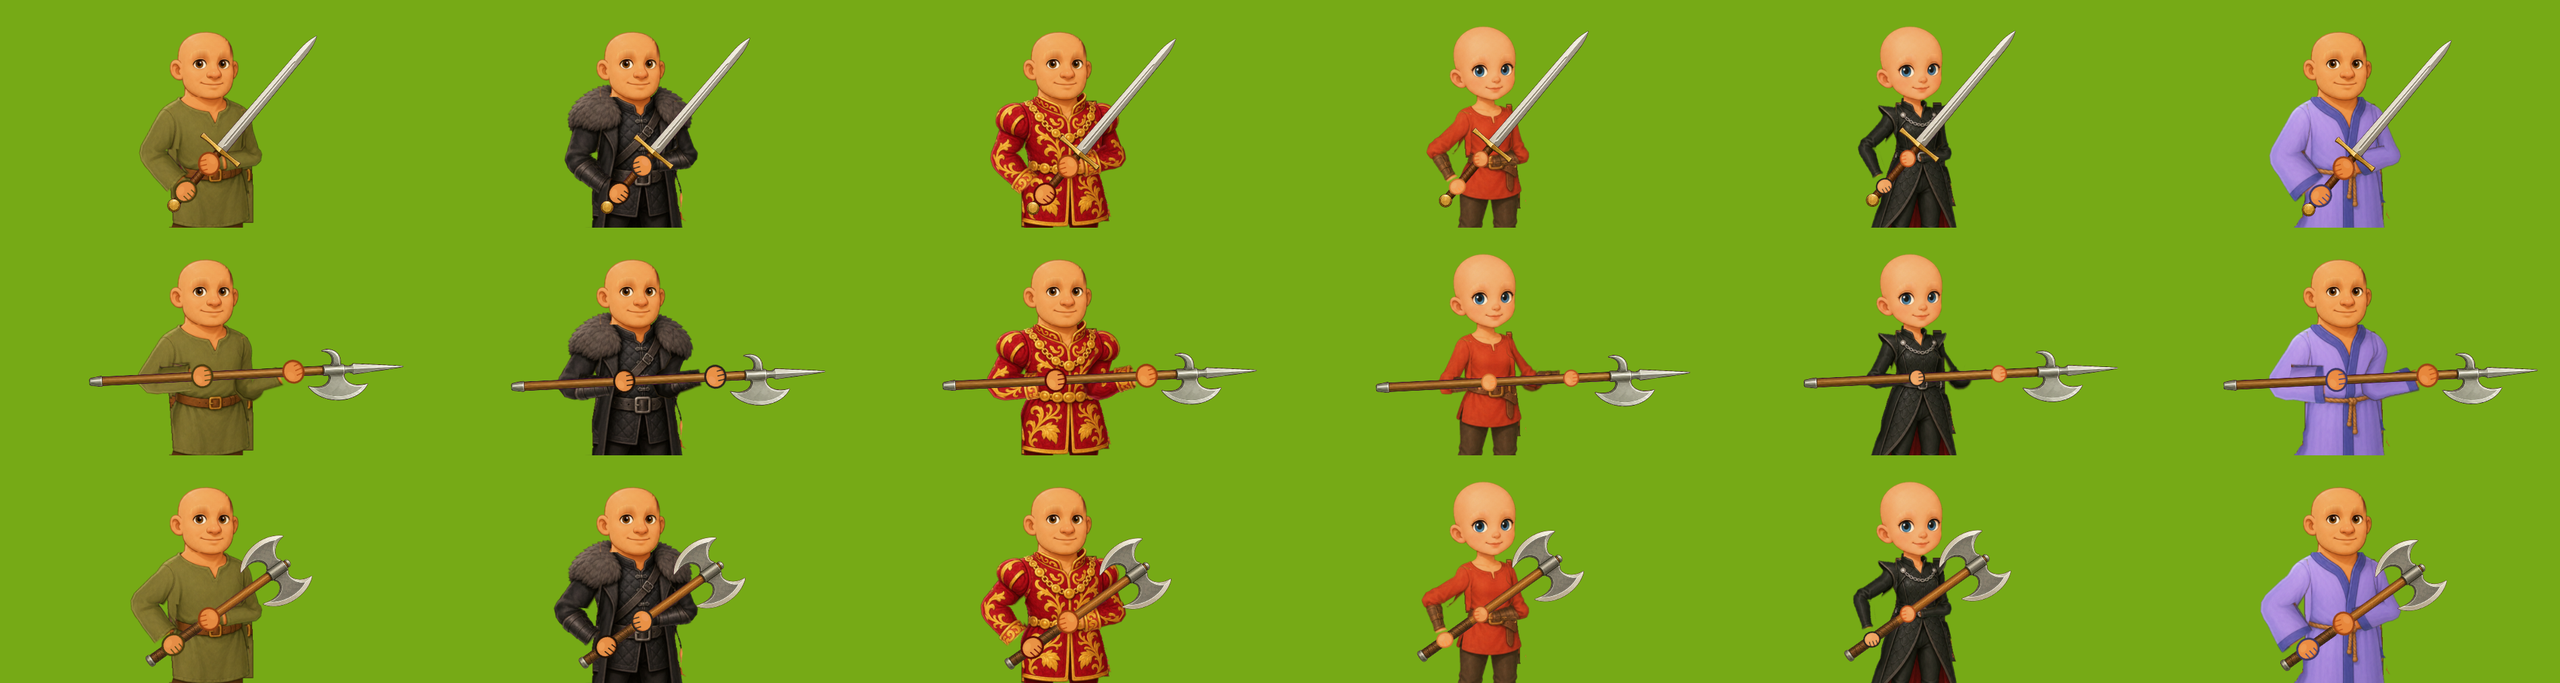
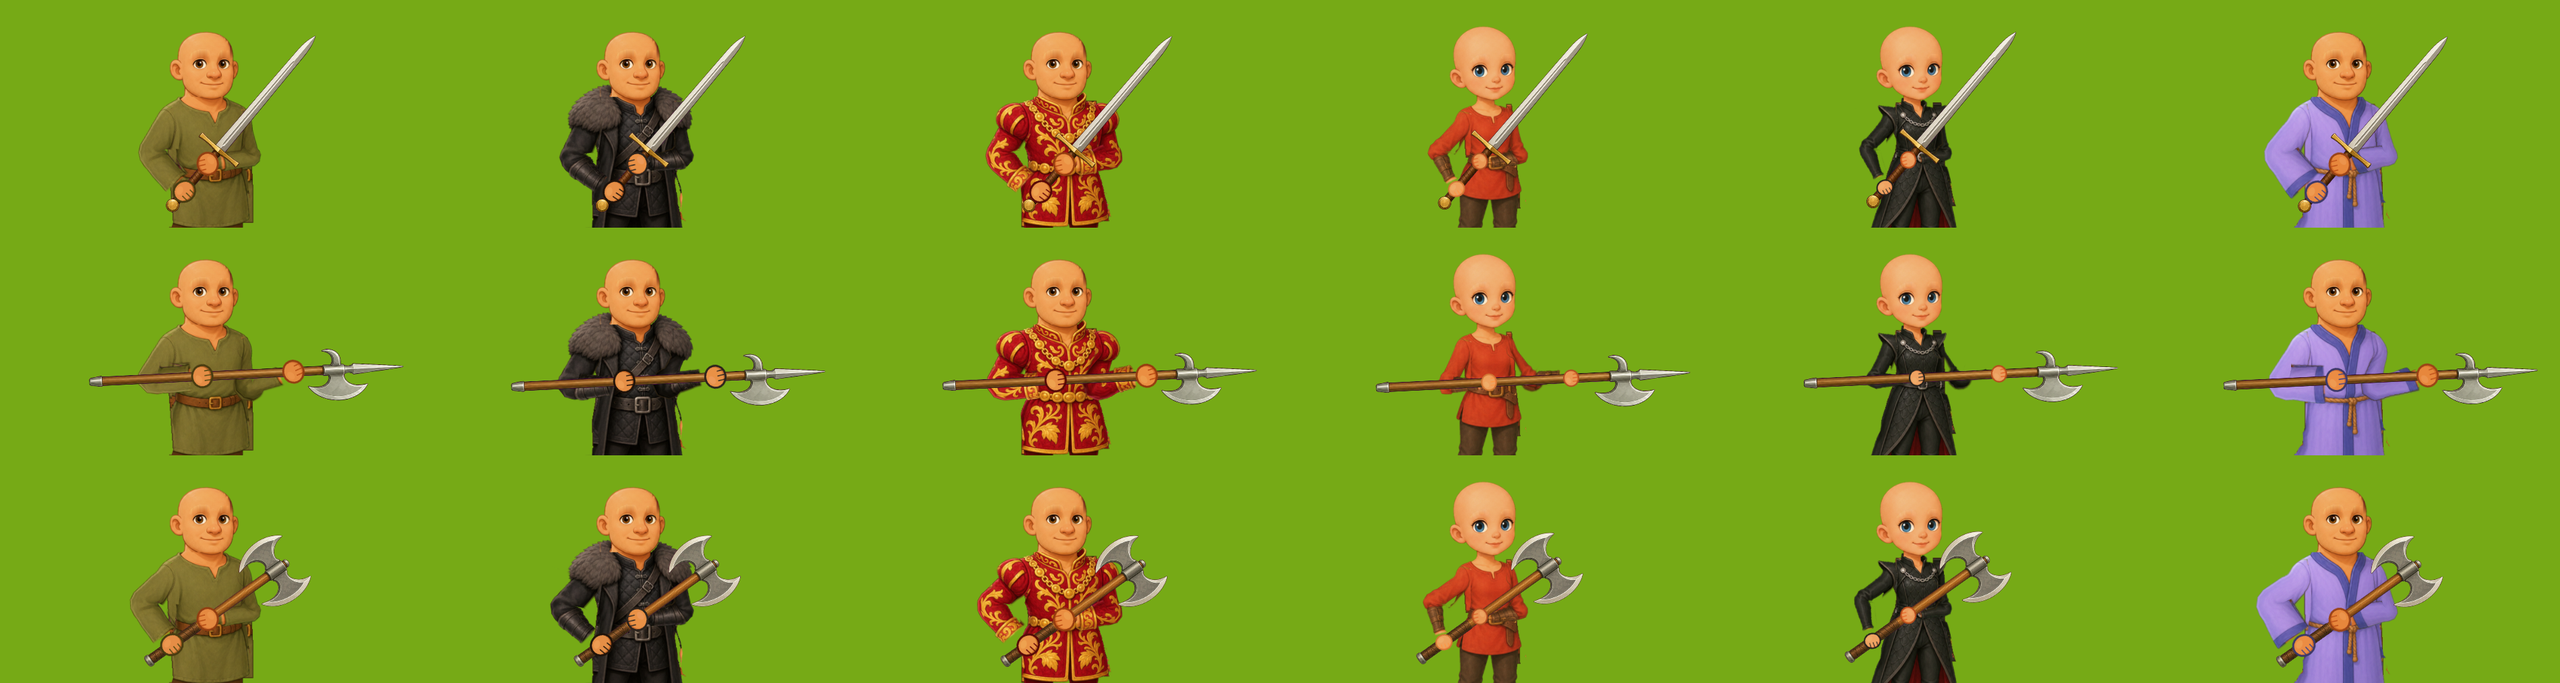
Two-handed slash and chop: the far arm is set, not solved, and does very little
The far arm was still doing too much: solved onto the weapon, it folded, swung
its upper arm and turned itself over to follow the hands. It is the thin arm,
half behind the chest, and it reads well only when it barely moves.

`slash2` and `chop2` are now keyed by that arm directly (the `weapon` track;
ArmRig.weaponPose): `f` where its forearm points, `u` a small swing of its upper
arm, `a` the way the weapon points. The weapon lies in that hand and the NEAR
arm, the whole one in front, is the one solved to reach the grip. The far upper
arm moves at most a quarter of a radian; the forearm does the work.

- at rest the far forearm lies in across the belly, so the elbow hangs straight
  down against the body on every outfit
- the chop keeps the axe head forward of upright on the raise, clear of the face
- the cost is reach: the cut ends with the hands at the belt and the blade
  level; the slash's body step is 0.46 tile to carry it to the target
- the far-arm fold keys and the reach clamp of the previous version are gone;
  the polearm's thrust is unchanged

Checked on offline renders only (two-handed-slash.gif, two-handed-chop.gif,
two-handed-guards.png).

diff --git a/game-client/src/Render/PixiRenderer/ArmRig.js b/game-client/src/Render/PixiRenderer/ArmRig.js
@@ -335,7 +335,6 @@ export function cutRig(renderer, texture, rig) {
 // The runtime: the arm sprites on a BreathSprite, and the clip player
 // ---------------------------------------------------------------------------------------------
 const SECOND_REACH = 0.86;    // a two-handed weapon's second hand: how far of its arm's full length it may be stretched
-const FIRST_REACH = 0.96;     // a weapon-keyed pose: how far of its length the FIRST arm may be stretched (the near arm: it may go nearly straight)
 const SECOND_MIN_HOLD = 0.22; // ... and how near the first hand it may come, tiles along the weapon
 const SECOND_KEEP = 0.8;      // ... what a px of the elbow moving since the last frame costs: it holds its fold unless the other is clearly better
 const SECOND_EASE_MS = 35;    // ... and how quickly its joints follow the answer
@@ -361,8 +360,8 @@ function handPoint(a, ts, te, tw = 0) {
  * that is from where the elbow hangs in the drawing) }. Out of reach, the arm straightens toward the
  * point; too near, it folds as far as it can. Two bones reach a point two ways, mirror images; an elbow
  * mirror images: `bend` says which (1: the forearm turns clockwise on the upper arm, the far arm's usual
- * way; -1: the other, the near arm's). A weapon-keyed clip names the fold itself (weaponPose); the older
- * two-handed clips weigh both each frame (secondPose).
+ * way; -1: the other, the near arm's). A weapon-keyed clip solves only the near arm, its own way
+ * (weaponPose); the polearm's far arm weighs both each frame (secondPose).
  */
 function reachFor(b, tx, ty, bend) {
   const [Sx, Sy] = b.S, [Ex, Ey] = b.E, [Gx, Gy] = b.G;
@@ -376,8 +375,6 @@ function reachFor(b, tx, ty, bend) {
   return { ts, te: wrap(Math.atan2(hy - ey, hx - ex) - a2 - ts), ex, ey, away: Math.hypot(ex - Ex, ey - Ey) };
 }
 const bendOf = (side) => (side === 'R' ? 1 : -1);
-/** The last `fold` set by a key at or before t (a weapon-keyed clip, ArmRig.weaponPose): 1 until one says otherwise. */
-const foldAt = (keys, t) => { let f = 1; for (const k of keys) { if (k.t > t) break; if (k.fold) f = k.fold; } return f; };
 
 export class ArmRig {
   constructor(sprite, rig, cut, { attackClip } = {}) {
@@ -536,7 +533,7 @@ export class ArmRig {
   secondPose(clip, t, now, auto) {
     const H = this.second, a = H && this.arms[H.holder], b = H && this.arms[H.side];
     if (!a || !b || !a.held) return null;
-    const keyed = clip ? (clip.weapon ? { ...keyAt(clip.weapon, t, ['x', 'y', 'a']), fold: foldAt(clip.weapon, t) } : null) : (this.stance && this.stance.weapon) || null;
+    const keyed = clip ? (clip.weapon ? keyAt(clip.weapon, t, ['f', 'u', 'a']) : null) : (this.stance && this.stance.weapon) || null;
     if (keyed) return this.weaponPose(H, a, b, keyed, clip, t, now);
     const p = this.poseOf(H.holder, a, clip, t, now, auto), g = handPoint(a, p.ts, p.te, p.tw);
     let d = (clip && clip.second ? valueAt(clip.second, t, 'd') : H.dist) * H.pxPerTile;
@@ -582,29 +579,24 @@ export class ArmRig {
   }
 
   /**
-   * A two-handed weapon keyed by ITSELF (a clip's `weapon` track, a guard's `weapon`): `key` is where the
-   * second (front) hand is, from its own shoulder in lengths of that arm (x toward the image's right, the
-   * way the figure faces; y down), and the way the weapon points (a: 0 straight up, + to the right). The
-   * first hand is the hold's length back along the weapon, both arms are solved onto it, and the weapon
-   * is turned in the first hand to point as keyed. Asked to reach further than the arms can (the end of a
-   * cut is keyed past reach on purpose), the hands come back until both arms can hold on: each body
-   * stretches as far as its own arms go. Returns the second arm's pose, with the first arm's as `lead`.
+   * A two-handed weapon keyed by its FRONT ARM (a clip's `weapon` track, a guard's `weapon`). The far
+   * arm is the thin one, half behind the chest, and it reads well only when it does very little (owner
+   * 2026-11-13: "the upper bicep doesn't move all that much; most of the movement should be the lower
+   * arm"). So that arm is not solved at all: the key SETS it. `f` is where its forearm points, from
+   * hanging straight down (- in across the body, + out toward the target); `u` is how far its upper arm
+   * swings from where it is drawn (+ toward the target; kept small); `a` is the way the weapon points
+   * (0 straight up, + toward the target). The weapon lies in that hand, the first (near) hand is the
+   * hold's length back along it, and the near arm, the whole one in front, is the one solved to reach.
+   * Returns the second arm's pose, with the first arm's as `lead`.
    */
   weaponPose(H, a, b, key, clip, t, now) {
-    const len = (m) => Math.hypot(m.E[0] - m.S[0], m.E[1] - m.S[1]) + Math.hypot(m.G[0] - m.E[0], m.G[1] - m.E[1]);
-    const Lf = len(b), Ln = len(a), d = (clip && clip.second ? valueAt(clip.second, t, 'd') : H.dist) * H.pxPerTile;
-    const ux = Math.sin(key.a), uy = -Math.cos(key.a);
-    let fx = b.S[0] + key.x * Lf, fy = b.S[1] + key.y * Lf;
-    const fd = Math.hypot(fx - b.S[0], fy - b.S[1]), fmax = SECOND_REACH * Lf;
-    if (fd > fmax) { fx = b.S[0] + ((fx - b.S[0]) * fmax) / fd; fy = b.S[1] + ((fy - b.S[1]) * fmax) / fd; }
-    for (let i = 0; i < 40 && Math.hypot(fx - ux * d - a.S[0], fy - uy * d - a.S[1]) > FIRST_REACH * Ln; i++) fx -= 0.02 * Lf;
-    // the second arm's fold is the clip's to choose (`fold` on a key, from that key on; 1 its usual way): with the hand
-    // out past its own shoulder the usual fold lifts the elbow in the air, the other lets it hang. The clip turns the
-    // arm over where the hand passes close by the shoulder, the arm folded shut, where the two folds are one pose
-    const far = this.followTo(H, 'last', b, fx, fy, now, bendOf(H.side) * (key.fold || 1)), near = this.followTo(H, 'lastFirst', a, fx - ux * d, fy - uy * d, now, bendOf(H.holder));
-    const amt = this.stanceAmount(now), fore = handPoint(a, near.ts, near.te).fore;
-    const turn = Math.atan2(Math.sin(key.a - fore - a.held.angle), Math.cos(key.a - fore - a.held.angle));
-    return { side: H.side, ts: far.ts * amt, te: far.te * amt, tw: 0, st: null, tx: fx, ty: fy, amt, turn: turn * amt,
+    const d = (clip && clip.second ? valueAt(clip.second, t, 'd') : H.dist) * H.pxPerTile, amt = this.stanceAmount(now);
+    const wrap = (v) => Math.atan2(Math.sin(v), Math.cos(v));
+    const fts = -key.u, fte = wrap(Math.PI / 2 - key.f - Math.atan2(b.G[1] - b.E[1], b.G[0] - b.E[0]) + key.u); // screen turns: + is clockwise
+    const F = handPoint(b, fts, fte), ux = Math.sin(key.a), uy = -Math.cos(key.a);
+    const near = this.followTo(H, 'lastFirst', a, F.x - ux * d, F.y - uy * d, now, bendOf(H.holder));
+    const fore = handPoint(a, near.ts, near.te).fore, turn = wrap(key.a - fore - a.held.angle);
+    return { side: H.side, ts: fts * amt, te: fte * amt, tw: 0, st: null, tx: F.x, ty: F.y, amt, turn: turn * amt,
       lead: { ts: near.ts * amt, te: near.te * amt, tw: 0, st: this.stance } };
   }
 

diff --git a/game-client/src/Render/PixiRenderer/armClips.js b/game-client/src/Render/PixiRenderer/armClips.js
@@ -116,41 +116,34 @@ export const ARM_CLIPS = {
       { t: 520, s: 0.28, e: -1.3 },
     ],
   },
-  // the avatar's TWO-HANDED SLASH (great swords). It is keyed by the WEAPON, not by an arm (`weapon`,
-  // ArmRig.weaponPose): each key is where the FRONT hand is, from its own shoulder in lengths of that arm
-  // (x toward the target, y down), and where the blade points (a: 0 straight up, + toward the target).
-  // The rear hand is a grip's width down the blade's line from it, and BOTH arms are solved onto the
-  // sword. Keyed from the front shoulder because the far arm is the one with no room: its hand must stay
-  // where its elbow can hang, and where that is differs between the bodies (the female's far shoulder
-  // sits much nearer the middle; keyed by the rear arm's angles her far elbow thrashed, owner 2026-11-13).
-  // The blade is free in the hands here, not held at a right angle to the forearm: that is what lets the
-  // cut END at full stretch, both arms and the blade reaching out at the target. From the guard, hands
-  // at the belly and the blade leaning forward, the sword is lifted upright before the chest (it crosses
-  // the face for a moment), the hilt is drawn in past the chest as the blade comes over, and the sword is
-  // driven out level as far as the arms reach, then drawn back the same way. `fold` on a key turns the far
-  // arm over from there on (-1: its elbow hangs under the outstretched arm instead of lifting above it); it
-  // is set where the hand passes its own shoulder, the one place the arm can turn over unseen. `lead` is
-  // only the one-armed fallback for a figure whose rig has no far arm
+  // the avatar's TWO-HANDED SLASH (great swords). It is keyed by the FRONT ARM (`weapon`,
+  // ArmRig.weaponPose), which does as little as an arm can: its upper arm all but still (`u`, a small
+  // swing toward the target), its forearm doing the work (`f`: where it points from hanging straight
+  // down, - in across the body), and `a` the way the blade points (0 straight up, + toward the target).
+  // The rear hand is a grip's width back along the blade and the near arm is solved to hold it there. So
+  // the far arm never thrashes or winds itself over, on any body (owner 2026-11-13). The blade is free
+  // in the hands here, not held at a right angle to the forearm. From the guard, hands at the belly and
+  // the blade leaning forward, the forearm lifts the hilt to the collarbone, the blade upright, and
+  // sweeps it down and out to level at the belt, the upper arm following a little. `lead` is only the
+  // one-armed fallback for a figure whose rig has no far arm
   slash2: {
     hit: 295,
     body: [
       { t: 0, d: 0 },
       { t: 195, d: -0.1, ease: 'out' },
-      { t: 295, d: 0.4, ease: 'in' },
-      { t: 370, d: 0.36 },
+      { t: 295, d: 0.46, ease: 'in' },
+      { t: 370, d: 0.42 },
       { t: 640, d: 0 },
     ],
     weapon: [
-      { t: 0, x: -0.46, y: 0.5, a: 0.7, fold: 1 }, // the guard: the front hand where its elbow hangs straight down, in against the body
-      { t: 120, x: -0.36, y: 0.22, a: 0.3, ease: 'out' },
-      { t: 195, x: -0.42, y: 0.05, a: -0.1 },
-      { t: 225, x: -0.42, y: 0.04, a: -0.12 },
-      { t: 258, x: -0.04, y: 0.13, a: 0.75, ease: 'in', fold: -1 }, // the hilt drawn in past the chest: the far arm turns over here
-      { t: 295, x: 0.6, y: 0.5, a: 1.5 },
-      { t: 335, x: 0.6, y: 0.52, a: 1.55, ease: 'out' },
-      { t: 430, x: 0.6, y: 0.52, a: 1.55 },
-      { t: 540, x: -0.04, y: 0.15, a: 0.9, fold: 1 }, // drawn back to the chest, and the arm turned back
-      { t: 640, x: -0.46, y: 0.5, a: 0.7 },
+      { t: 0, f: -1.44, u: 0, a: 0.7 },
+      { t: 120, f: -1.95, u: 0.04, a: 0.3, ease: 'out' },
+      { t: 195, f: -2.45, u: 0.08, a: -0.1 },
+      { t: 225, f: -2.48, u: 0.08, a: -0.12 },
+      { t: 295, f: -0.75, u: 0.25, a: 1.5, ease: 'in' },
+      { t: 335, f: -0.7, u: 0.25, a: 1.55, ease: 'out' },
+      { t: 430, f: -0.7, u: 0.25, a: 1.55 },
+      { t: 640, f: -1.44, u: 0, a: 0.7 },
     ],
     lead: [
       { t: 0, s: 0.15, e: -1.02 },
@@ -235,19 +228,18 @@ export const ARM_CLIPS = {
   // down forward to level at the belt. Slower and heavier than the slash: the body rocks back under the lift and steps in hard
   chop2: {
     hit: 385,
-    // keyed by the WEAPON, as slash2 is (ArmRig.weaponPose): where the front hand is from its own shoulder,
-    // in lengths of that arm, and where the head points. The guard holds the front hand where its elbow
-    // hangs straight down against the body, on every body (owner 2026-11-13: tucked in, not sticking out)
+    // keyed by the FRONT ARM, as slash2 is (ArmRig.weaponPose): its forearm does the work (`f`), its upper
+    // arm barely moves (`u`), and `a` is the way the head points. At rest the forearm lies in across the
+    // belly, so the far elbow hangs straight down against the body
     weapon: [
-      { t: 0, x: -0.46, y: 0.5, a: 0.95, fold: 1 },
-      { t: 170, x: -0.32, y: 0.18, a: 0.35, ease: 'out' },
-      { t: 260, x: -0.1, y: -0.22, a: 0 },
-      { t: 300, x: -0.1, y: -0.23, a: -0.03 },
-      { t: 345, x: -0.42, y: 0.42, a: 0.7, ease: 'in' },
-      { t: 385, x: -0.24, y: 0.92, a: 1.45 },
-      { t: 430, x: -0.22, y: 0.9, a: 1.55, ease: 'out' },
-      { t: 560, x: -0.22, y: 0.9, a: 1.55 },
-      { t: 800, x: -0.46, y: 0.5, a: 0.95 },
+      { t: 0, f: -1.44, u: 0, a: 0.95 },
+      { t: 170, f: -1.95, u: 0.05, a: 0.6, ease: 'out' },
+      { t: 260, f: -2.6, u: 0.1, a: 0.25 }, // the head stays forward of upright: clear of the face
+      { t: 300, f: -2.62, u: 0.1, a: 0.22 },
+      { t: 385, f: -0.75, u: 0.25, a: 1.45, ease: 'in' },
+      { t: 430, f: -0.7, u: 0.25, a: 1.55, ease: 'out' },
+      { t: 560, f: -0.7, u: 0.25, a: 1.55 },
+      { t: 800, f: -1.44, u: 0, a: 0.95 },
     ],
     body: [
       { t: 0, d: 0 },

diff --git a/game-client/src/Render/PixiRenderer/heldWeapon.js b/game-client/src/Render/PixiRenderer/heldWeapon.js
@@ -33,10 +33,10 @@ const CUT_GUARD = { side: HELD_ARM, s: 0.28, e: -1.3 };
 const THRUST_GUARD = { side: HELD_ARM, s: 0.43, e: -2.05 };
 // the two-handed sword's guard: both hands at the belly, the blade standing up and leaning well forward
 // (`weapon`: the same guard as the two-handed clip keys it, armClips.js slash2; s, e: the one-armed fallback)
-const GREAT_GUARD = { side: HELD_ARM, s: 0.15, e: -1.02, weapon: { x: -0.46, y: 0.5, a: 0.7 } };
+const GREAT_GUARD = { side: HELD_ARM, s: 0.15, e: -1.02, weapon: { f: -1.44, u: 0, a: 0.7 } };
 // a heavy two-handed head carried low and ready: the rear hand at the hip, the haft across the body with the head forward and up
 // (`weapon`: the guard as the two-handed clip keys it, armClips.js chop2; s, e: the one-armed fallback)
-const HEAVY_GUARD = { side: HELD_ARM, s: 0.1, e: -0.47, weapon: { x: -0.46, y: 0.5, a: 0.95 } };
+const HEAVY_GUARD = { side: HELD_ARM, s: 0.1, e: -0.47, weapon: { f: -1.44, u: 0, a: 0.95 } };
 
 /**
  * The weapon categories. `art`: the drawing; `size` and `grip`: its canvas and where the hand holds

diff --git a/docs/equipment-plan.md b/docs/equipment-plan.md
@@ -45,33 +45,35 @@ The owner asked to see the sword in the game before any more planning. What is i
   **The two-handed sword (built 2026-11-13).** Category `greatsword`: its own longer drawing
   (`weapon-great-sword.png`, 1.45 tiles, a grip long enough for two fists; `tools/art/jobs/weapons-r3.json`),
   the front hand 0.23 tile above the rear one, and the `slash2` clip. The front hand cannot slide
-  (above it is the blade). `slash2` is **keyed by the weapon**, not by an arm (`weapon` track,
-  `ArmRig.weaponPose`): each key says where the FRONT hand is, from its own shoulder in lengths of that
-  arm, and where the blade points; the rear hand is a grip's width back along the blade, and both arms
-  are solved onto the sword. Why:
-  - *The bodies differ.* Keyed by the rear arm's angles, the female's far elbow thrashed: her far
-    shoulder sits much nearer the middle, so the same arm angles put the hands almost on it. Keyed from
-    the front shoulder, the far hand is always where that arm has room.
-  - *Reach.* The blade is free in the hands here (not at a right angle to the forearm), so the cut ends
-    at full stretch: both arms and the blade reaching out level at the target. The last key is set past
-    reach on purpose and the hands come back until both arms can hold on, so each body stretches as far
-    as its own arms go. The body's step is 0.4 tile.
-  - *The far arm turns over.* With the hand out past its own shoulder the far arm's usual fold lifts
-    the elbow in the air; the other fold lets it hang under the arm. A key's `fold` turns the arm over
-    from there on, and it is set where the hilt is drawn in past the chest, the arm folded shut: the
-    one place the two folds are the same pose, so the turn is not seen. The recovery goes back the same
-    way.
-  The motion: guard (hands at the belly, blade leaning forward), lifted upright before the chest (the
-  blade crosses the face for a moment), hilt drawn in past the chest as the blade comes over, driven
-  out level, drawn back. The blow lands at 295 ms. docs/art/equipment/two-handed-slash.gif.
+  (above it is the blade).
+
+  **How the two-handed slash and chop are keyed: by the FRONT ARM** (`weapon` track,
+  `ArmRig.weaponPose`). The far arm is the thin one, half behind the chest, and it reads well only
+  when it does very little (owner 2026-11-13: "the far arm does very little motion, the upper bicep
+  doesn't move all that much; most of the movement should be the lower arm"). So that arm is not
+  solved at all: each key SETS it, `f` where its forearm points (from hanging straight down, - in
+  across the body) and `u` a small swing of its upper arm, plus `a`, the way the weapon points. The
+  weapon lies in that hand, the rear hand is the hold's length back along it, and the near arm, the
+  whole one in front, is the one solved to reach. The weapon is free in the hands (not at a right
+  angle to the forearm, as the one-handed slash keeps it).
+  What was tried first, and why it went: (1) keyed by the rear arm's angles with the far arm solved
+  onto the grip: the far elbow winged out and, on the female, whose far shoulder sits nearer the
+  middle, thrashed; (2) keyed by where the front hand goes, both arms solved, the far arm turned over
+  mid-cut for more reach: the reach was better and the far arm did far too much. The cost of the calm
+  far arm is reach: the cut ends with the hands at the belt and the blade level, and the body's step
+  (0.46 tile for the slash) carries it to the target.
+
+  The slash's motion: guard (hands at the belly, blade leaning forward), the forearm lifts the hilt to
+  the collarbone with the blade upright (it crosses the face for a moment), then sweeps it down and out
+  to level at the belt. The blow lands at 295 ms. docs/art/equipment/two-handed-slash.gif.
+
   **Guards, the far elbow tucked in (owner 2026-11-13).** At rest the far elbow must hang against the
-  body, not stick out. A weapon-keyed guard does it by construction: the front hand is placed where
-  that arm's elbow hangs straight down (0.46 of the arm's length toward the body from its shoulder,
-  0.5 down), on every body. The great sword's and the axe's guards are keyed so
+  body, not stick out. With the far arm set directly it does by construction: its upper arm is as
+  drawn and its forearm lies in across the belly (`f` -1.44), on every body
   (docs/art/equipment/two-handed-guards.png: six outfits, three weapons).
-  **`chop2` is weapon-keyed too** since the same day, for that guard: same motion as before (hoisted
-  upright at the far shoulder, down to level at the belt), the front hand 0.28 tile up the haft at
-  rest. Its `give` is gone (a weapon-keyed pose places the hand itself). `thrust2` is still keyed by
+  **`chop2`** is keyed the same way: hoisted with the head kept forward of upright (clear of the face),
+  down to level at the belt, the front hand 0.28 tile up the haft at rest; 385 ms.
+  `thrust2` is still keyed by
   the rear arm: its far arm reaches forward to the shaft and its elbow already hangs.
 
   One drawing a category, all at one scale (`heldWeapon.PX_PER_TILE`), cut to the category's canvas
